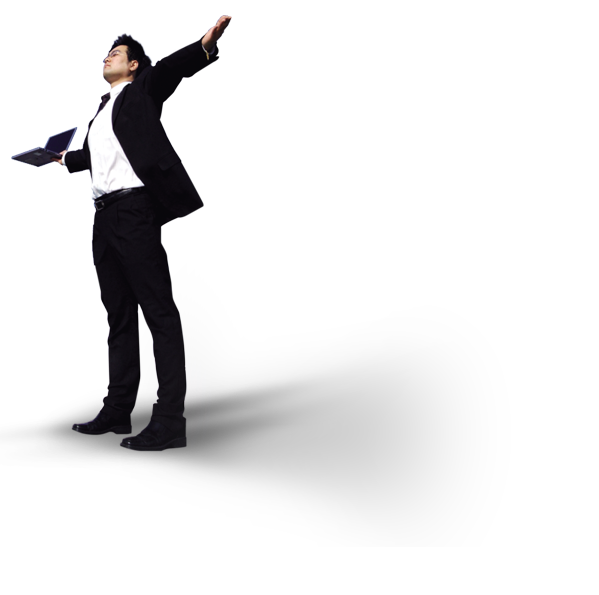
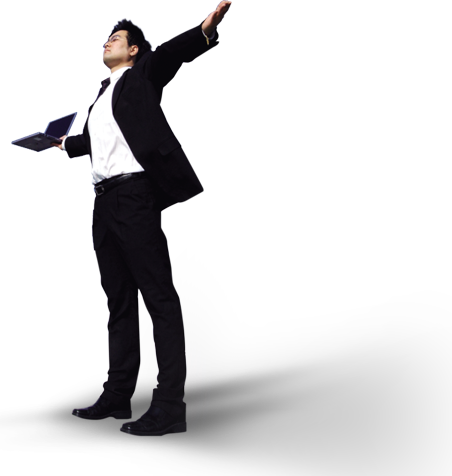
fix man image size too big, break layout

diff --git a/css/main.css b/css/main.css
@@ -7,6 +7,9 @@ body{
     background: url('../img/bg.jpg') no-repeat transparent top;
     background-size: cover;
     -webkit-background-size: cover;
+    overflow: hidden;
+    max-height: 100%;
+    max-width: 100%;
 }
 header .slogan{
     color: #fff;
@@ -72,7 +75,7 @@ header .slogan{
     position: absolute;
     top: 110px;
     z-index: 2;
-    right: -130px;
+    right: -70px;
 }
 footer{
     position: absolute;

diff --git a/js/main.js b/js/main.js
@@ -11,8 +11,7 @@ $(document).ready(function(){
 
                  // set full screen for body
                  $('body').width(winWidth)
-                     .height(winHeight)
-                     .css('overflow','hidden');
+                     .height(winHeight);
              });
              $(window).trigger('resize');
          },

diff --git a/index.html b/index.html
@@ -84,7 +84,7 @@
 
         <!-- Man -->
         <div id="man">
-            <img class="img-responsive hidden-xs" alt="" src="img/Man.png" width="599" height="595"/>
+            <img class="img-responsive hidden-xs" alt="" src="img/Man.png" width="452" height="476"/>
         </div>
 
         <!-- Footer -->
